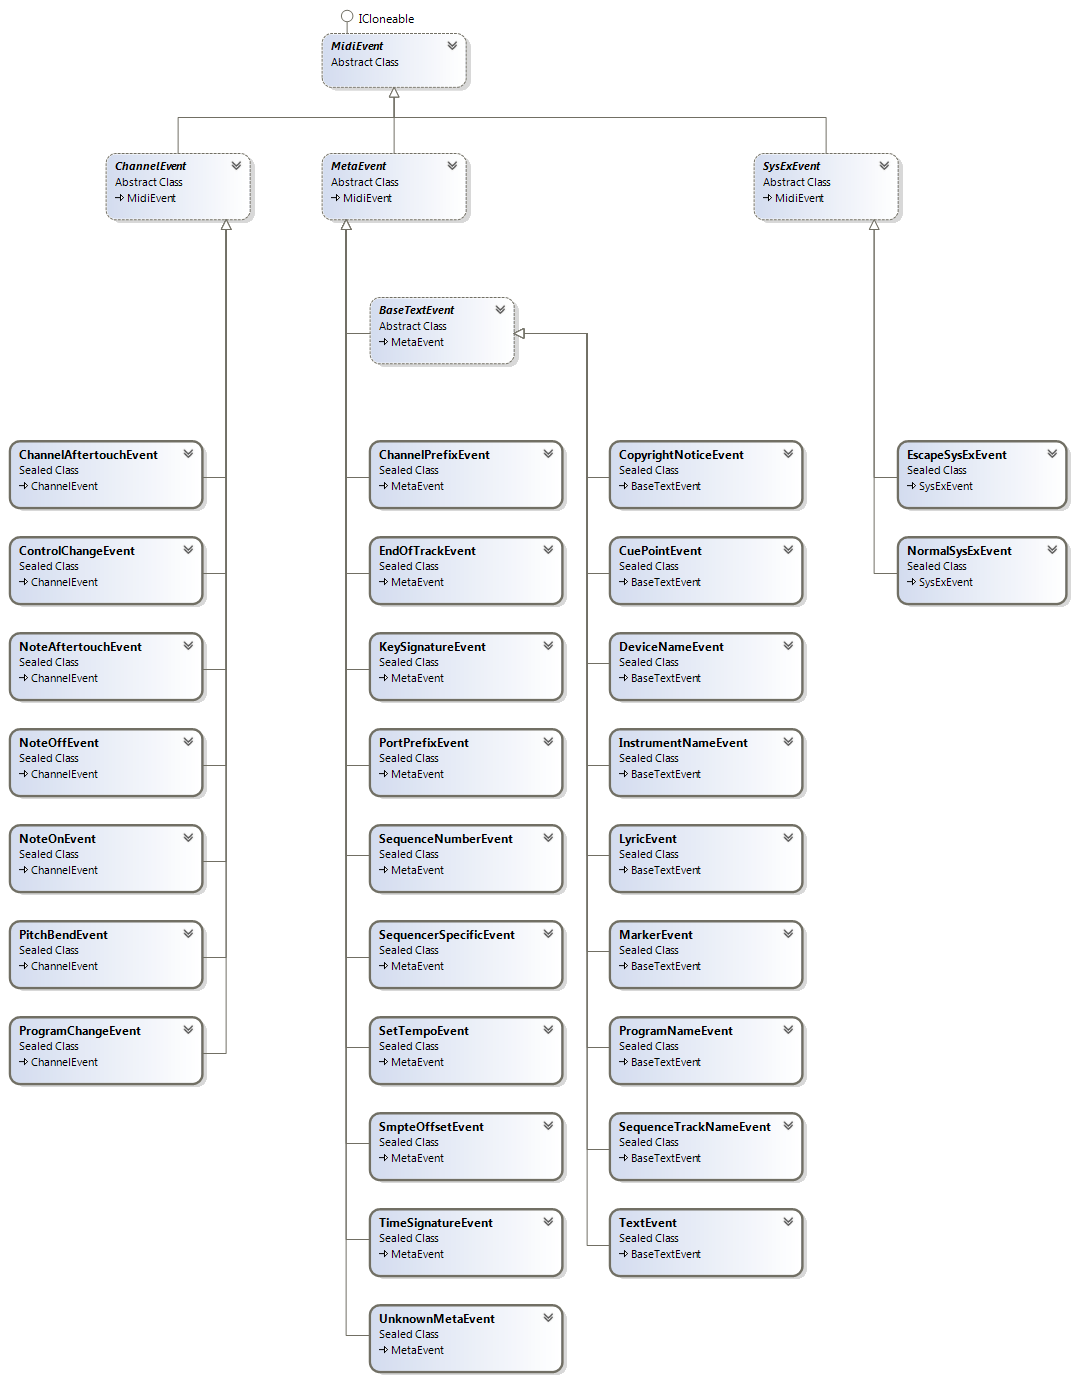
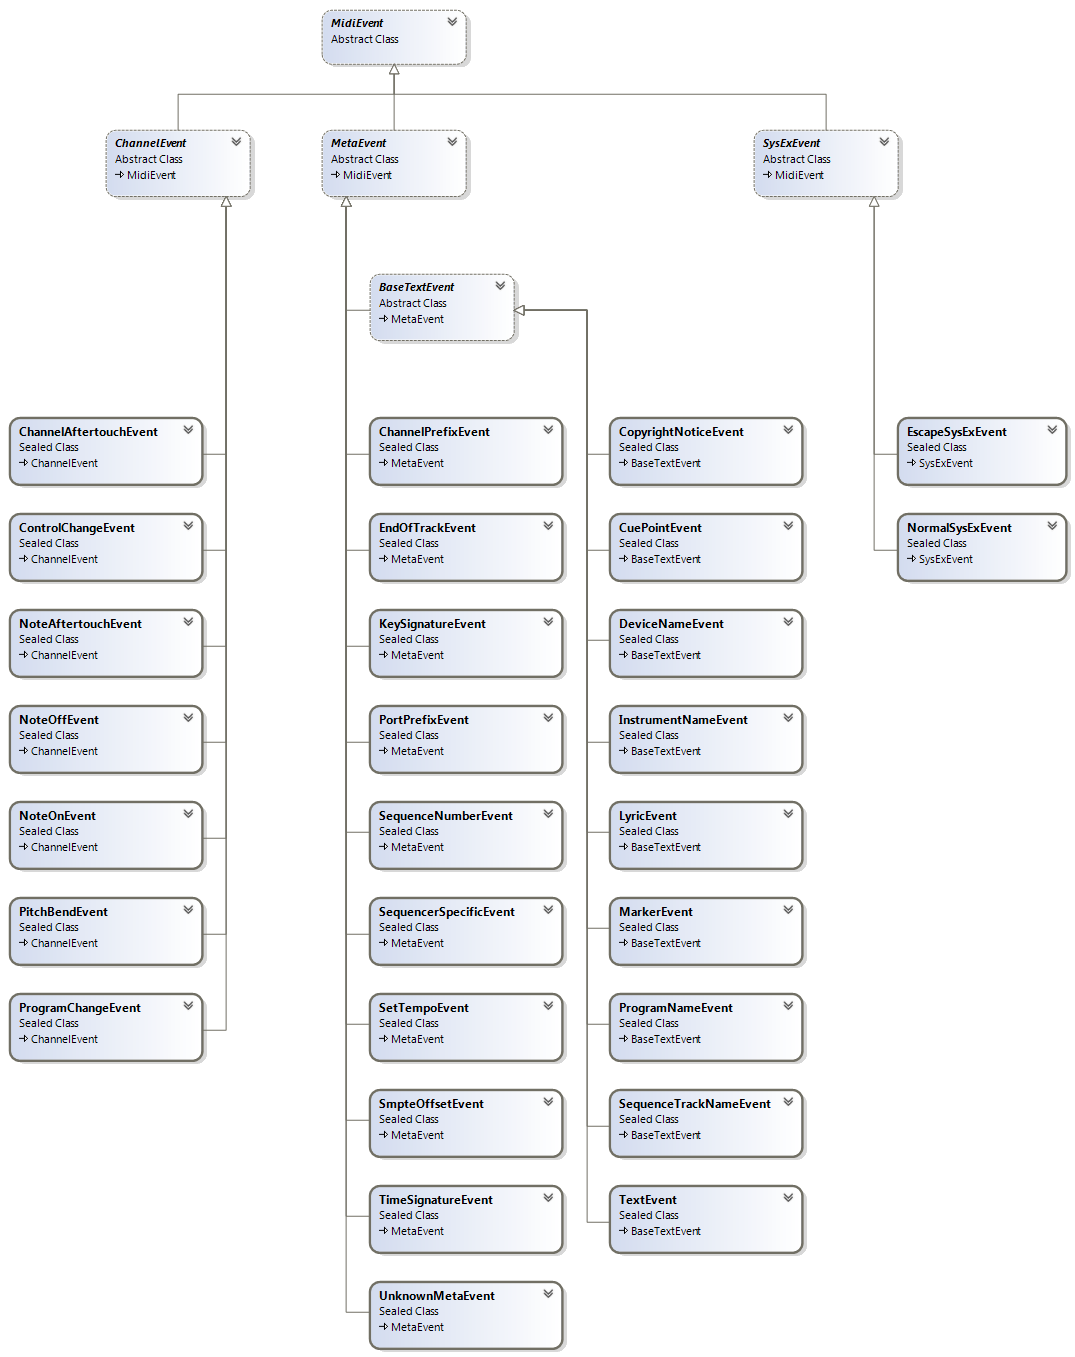
Remove ICloneable interface implementations

diff --git a/DryWetMidi/Smf/ChunksConverters/MultiTrackChunksConverter.cs b/DryWetMidi/Smf/ChunksConverters/MultiTrackChunksConverter.cs
@@ -41,7 +41,7 @@ namespace Melanchall.DryWetMidi.Smf
 
         #region IChunksConverter
 
-        public IEnumerable<MidiChunk> Convert(IEnumerable<MidiChunk> chunks, bool cloneEvents = true)
+        public IEnumerable<MidiChunk> Convert(IEnumerable<MidiChunk> chunks)
         {
             if (chunks == null)
                 throw new ArgumentNullException(nameof(chunks));
@@ -55,7 +55,7 @@ namespace Melanchall.DryWetMidi.Smf
                                                    .ToArray();
             FourBitNumber? channel = null;
 
-            foreach (var midiEvent in trackChunks.First().Events.Select(m => (MidiEvent)m.Clone()))
+            foreach (var midiEvent in trackChunks.First().Events.Select(m => m.Clone()))
             {
                 Array.ForEach(trackChunksDescriptors,
                               d => d.DeltaTime += midiEvent.DeltaTime);
@@ -63,8 +63,7 @@ namespace Melanchall.DryWetMidi.Smf
                 var channelEvent = midiEvent as ChannelEvent;
                 if (channelEvent != null)
                 {
-                    trackChunksDescriptors[channelEvent.Channel + 1].AddEvent(cloneEvents ? (MidiEvent)midiEvent.Clone()
-                                                                                          : midiEvent);
+                    trackChunksDescriptors[channelEvent.Channel + 1].AddEvent(midiEvent.Clone());
                     channel = null;
                     continue;
                 }

diff --git a/DryWetMidi/Smf/Events/Base/MidiEvent.cs b/DryWetMidi/Smf/Events/Base/MidiEvent.cs
@@ -5,7 +5,7 @@ namespace Melanchall.DryWetMidi.Smf
     /// <summary>
     /// Represents a MIDI file event stored in a track chunk.
     /// </summary>
-    public abstract class MidiEvent : ICloneable
+    public abstract class MidiEvent
     {
         #region Constants
 
@@ -76,7 +76,7 @@ namespace Melanchall.DryWetMidi.Smf
         /// Clones event by creating a copy of it.
         /// </summary>
         /// <returns>Copy of the event.</returns>
-        protected abstract MidiEvent CloneEvent();
+        public abstract MidiEvent Clone();
 
         /// <summary>
         /// Determines whether the specified event is equal to the current one.
@@ -104,21 +104,6 @@ namespace Melanchall.DryWetMidi.Smf
                 return true;
 
             return !respectDeltaTime || DeltaTime == midiEvent.DeltaTime;
-        }
-
-        #endregion
-
-        #region ICloneable
-
-        /// <summary>
-        /// Creates a new object that is a copy of the current instance.
-        /// </summary>
-        /// <returns>A new object that is a copy of this instance.</returns>
-        public object Clone()
-        {
-            var midiEvent = CloneEvent();
-            midiEvent.DeltaTime = DeltaTime;
-            return midiEvent;
         }
 
         #endregion

diff --git a/DryWetMidi/Smf/TimeDivision/TimeDivision.cs b/DryWetMidi/Smf/TimeDivision/TimeDivision.cs
@@ -15,7 +15,7 @@ namespace Melanchall.DryWetMidi.Smf
     /// (which represent a byte stored positive) is the resolution within a frame: typical values may be 4
     /// (MIDI Time Code resolution), 8, 10, 80 (bit resolution), or 100.
     /// </remarks>
-    public abstract class TimeDivision : ICloneable
+    public abstract class TimeDivision
     {
         #region Methods
 
@@ -29,20 +29,7 @@ namespace Melanchall.DryWetMidi.Smf
         /// Clones time division by creating a copy of it.
         /// </summary>
         /// <returns>Copy of the time division.</returns>
-        protected abstract TimeDivision CloneTimeDivision();
-
-        #endregion
-
-        #region ICloneable
-
-        /// <summary>
-        /// Creates a new object that is a copy of the current instance.
-        /// </summary>
-        /// <returns>A new object that is a copy of this instance.</returns>
-        public object Clone()
-        {
-            return CloneTimeDivision();
-        }
+        public abstract TimeDivision Clone();
 
         #endregion
     }

diff --git a/DryWetMidi/Smf/ChunksConverters/MultiSequenceChunksConverter.cs b/DryWetMidi/Smf/ChunksConverters/MultiSequenceChunksConverter.cs
@@ -8,7 +8,7 @@ namespace Melanchall.DryWetMidi.Smf
     {
         #region IChunksConverter
 
-        public IEnumerable<MidiChunk> Convert(IEnumerable<MidiChunk> chunks, bool cloneEvents = true)
+        public IEnumerable<MidiChunk> Convert(IEnumerable<MidiChunk> chunks)
         {
             if (chunks == null)
                 throw new ArgumentNullException(nameof(chunks));
@@ -22,7 +22,7 @@ namespace Melanchall.DryWetMidi.Smf
 
             var singleTrackChunksConverter = ChunksConverterFactory.GetConverter(MidiFileFormat.SingleTrack);
             return sequenceNumbers.GroupBy(n => n.Number)
-                                  .SelectMany(g => singleTrackChunksConverter.Convert(g.Select(n => n.Chunk), cloneEvents))
+                                  .SelectMany(g => singleTrackChunksConverter.Convert(g.Select(n => n.Chunk)))
                                   .Concat(chunks.Where(c => !(c is TrackChunk)));
         }
 

diff --git a/DryWetMidi/Smf/ChunksConverters/SingleTrackChunksConverter.cs b/DryWetMidi/Smf/ChunksConverters/SingleTrackChunksConverter.cs
@@ -80,7 +80,7 @@ namespace Melanchall.DryWetMidi.Smf
 
         #region IChunksConverter
 
-        public IEnumerable<MidiChunk> Convert(IEnumerable<MidiChunk> chunks, bool cloneEvents = true)
+        public IEnumerable<MidiChunk> Convert(IEnumerable<MidiChunk> chunks)
         {
             if (chunks == null)
                 throw new ArgumentNullException(nameof(chunks));
@@ -120,9 +120,7 @@ namespace Melanchall.DryWetMidi.Smf
 
             foreach (var eventDescriptor in eventsDescriptors)
             {
-                var midiEvent = eventDescriptor.Event;
-                if (cloneEvents)
-                    midiEvent = (MidiEvent)midiEvent.Clone();
+                MidiEvent midiEvent = eventDescriptor.Event.Clone();
 
                 midiEvent.DeltaTime = eventDescriptor.AbsoluteTime - time;
                 resultTrackChunk.Events.Add(midiEvent);

diff --git a/DryWetMidi/Smf/ChunksConverters/IChunksConverter.cs b/DryWetMidi/Smf/ChunksConverters/IChunksConverter.cs
@@ -13,9 +13,7 @@ namespace Melanchall.DryWetMidi.Smf
         /// Converts collection of <see cref="MidiChunk"/> objects to another representation.
         /// </summary>
         /// <param name="chunks">Chunks collection that need to be converted.</param>
-        /// <param name="cloneEvents">If true events in track chunks will be cloned for the new chunks;
-        /// if false events will be just moved to the new track chunks.</param>
         /// <returns>Another representation of the <paramref name="chunks"/> collection.</returns>
-        IEnumerable<MidiChunk> Convert(IEnumerable<MidiChunk> chunks, bool cloneEvents = true);
+        IEnumerable<MidiChunk> Convert(IEnumerable<MidiChunk> chunks);
     }
 }

diff --git a/DryWetMidi/Smf/Chunks/TrackChunk.cs b/DryWetMidi/Smf/Chunks/TrackChunk.cs
@@ -184,6 +184,7 @@ namespace Melanchall.DryWetMidi.Smf
         /// </summary>
         /// <param name="reader">Reader to read an event.</param>
         /// <param name="settings">Settings according to which an event must be read.</param>
+        /// <param name="channelEventStatusByte">Current channel event status byte used as running status.</param>
         /// <returns>Instance of the <see cref="MidiEvent"/> representing a MIDI event.</returns>
         /// <exception cref="ObjectDisposedException">Method was called after the writer's underlying stream
         /// was disposed.</exception>

diff --git a/DryWetMidi/Smf/Utilities/TrackChunkUtilities.cs b/DryWetMidi/Smf/Utilities/TrackChunkUtilities.cs
@@ -49,7 +49,7 @@ namespace Melanchall.DryWetMidi.Smf
         private static IEnumerable<TrackChunk> ConvertTrackChunks(IEnumerable<TrackChunk> trackChunks, MidiFileFormat format)
         {
             var chunksConverter = ChunksConverterFactory.GetConverter(format);
-            return chunksConverter.Convert(trackChunks, false)
+            return chunksConverter.Convert(trackChunks)
                                   .OfType<TrackChunk>();
         } 
     

diff --git a/DryWetMidi/Smf/Events/Base/ChannelEvent.cs b/DryWetMidi/Smf/Events/Base/ChannelEvent.cs
@@ -148,7 +148,7 @@ namespace Melanchall.DryWetMidi.Smf
         /// Clones event by creating a copy of it.
         /// </summary>
         /// <returns>Copy of the event.</returns>
-        protected sealed override MidiEvent CloneEvent()
+        public sealed override MidiEvent Clone()
         {
             var eventType = GetType();
             var channelEvent = (ChannelEvent)Activator.CreateInstance(eventType);

diff --git a/DryWetMidi/Smf/Events/Base/SysExEvent.cs b/DryWetMidi/Smf/Events/Base/SysExEvent.cs
@@ -110,7 +110,7 @@ namespace Melanchall.DryWetMidi.Smf
         /// Clones event by creating a copy of it.
         /// </summary>
         /// <returns>Copy of the event.</returns>
-        protected sealed override MidiEvent CloneEvent()
+        public sealed override MidiEvent Clone()
         {
             var eventType = GetType();
             var sysExEvent = (SysExEvent)Activator.CreateInstance(eventType);

diff --git a/DryWetMidi/Smf/Events/Meta/TimeSignatureEvent.cs b/DryWetMidi/Smf/Events/Meta/TimeSignatureEvent.cs
@@ -199,7 +199,7 @@ namespace Melanchall.DryWetMidi.Smf
         /// Clones event by creating a copy of it.
         /// </summary>
         /// <returns>Copy of the event.</returns>
-        protected override MidiEvent CloneEvent()
+        public override MidiEvent Clone()
         {
             return new TimeSignatureEvent(Numerator, Denominator, ClocksPerClick, NumberOf32ndNotesPerBeat);
         }

diff --git a/DryWetMidi/Smf/TimeDivision/TicksPerQuarterNoteTimeDivision.cs b/DryWetMidi/Smf/TimeDivision/TicksPerQuarterNoteTimeDivision.cs
@@ -60,7 +60,7 @@ namespace Melanchall.DryWetMidi.Smf
         /// Clones time division by creating a copy of it.
         /// </summary>
         /// <returns>Copy of the time division.</returns>
-        protected override TimeDivision CloneTimeDivision()
+        public override TimeDivision Clone()
         {
             return new TicksPerQuarterNoteTimeDivision(TicksPerQuarterNote);
         }
